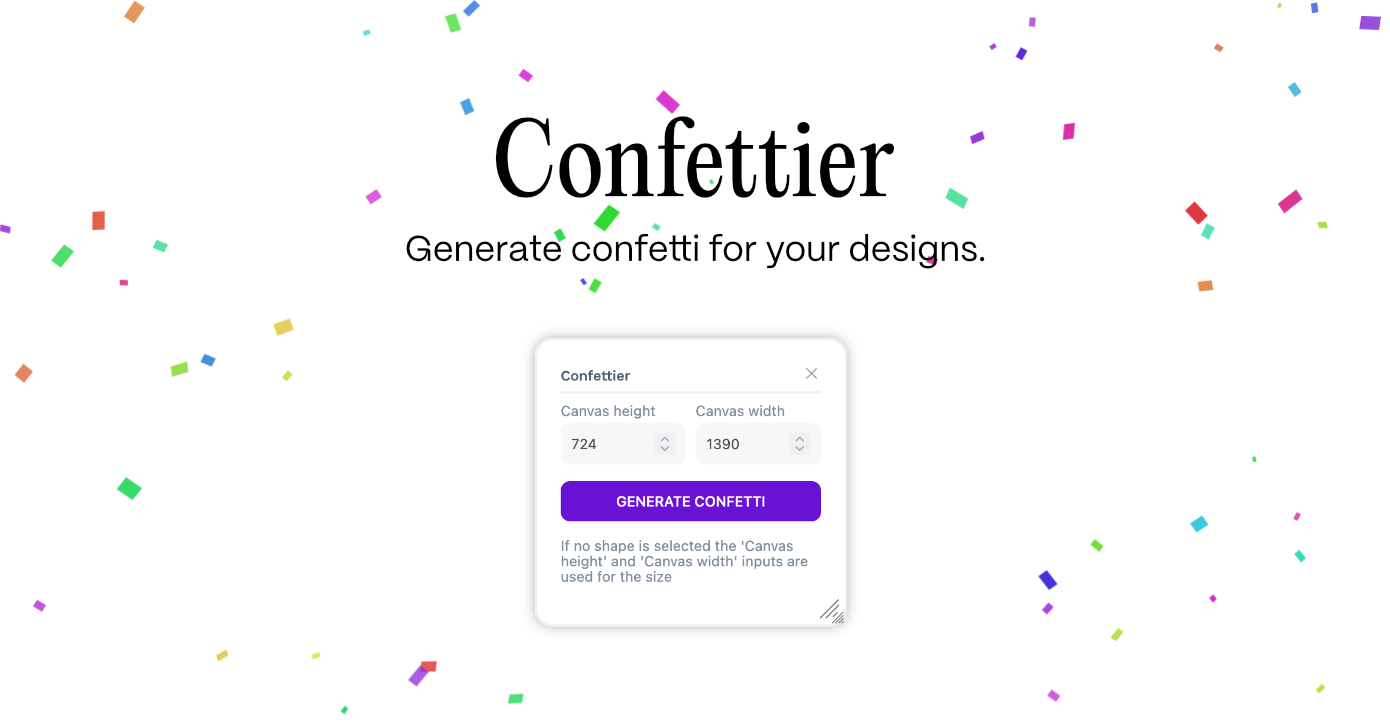
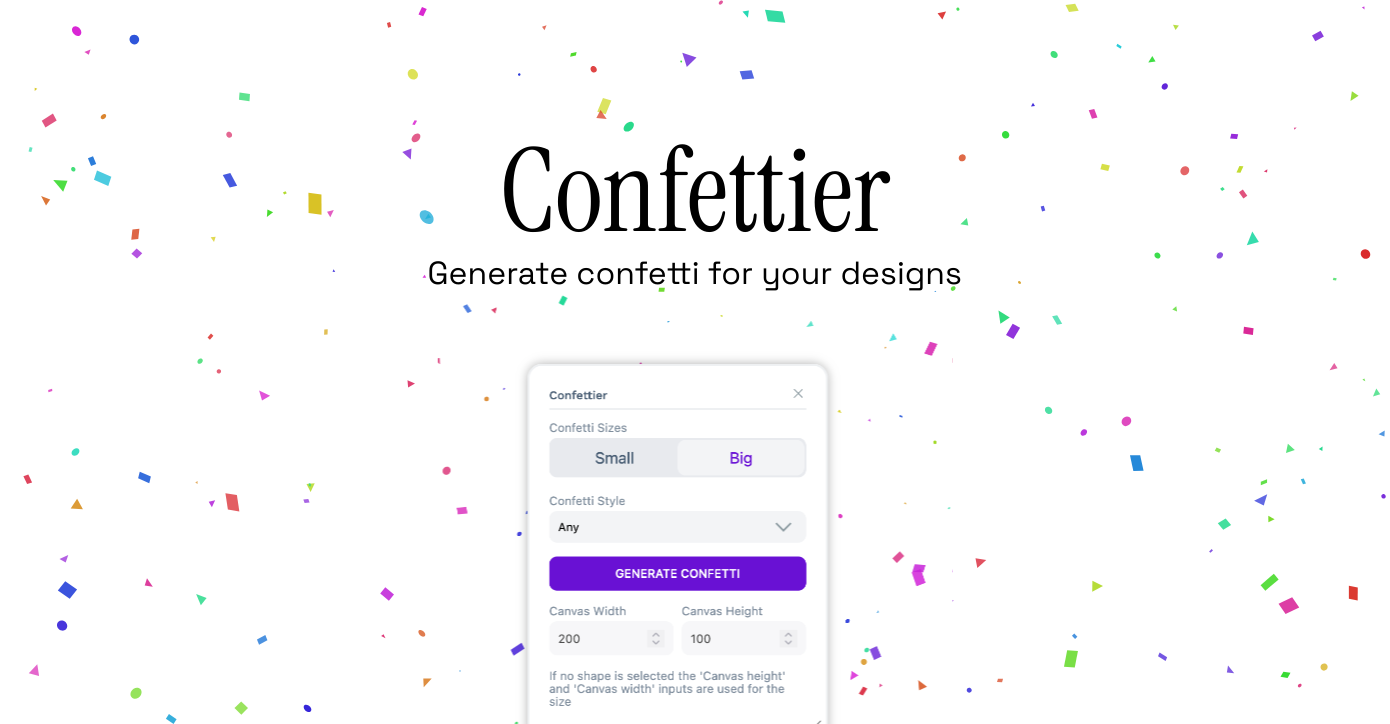
new options like size and shapes for confetti

diff --git a/src/plugin.ts b/src/plugin.ts
@@ -1,7 +1,76 @@
 penpot.ui.open("Confettier", `?theme=${penpot.theme}`, {
-  width: 240,
-  height: 220,
+  width: 280,
+  height: 360,
 });
+
+let confettiStyle = "all";
+let confettiSize = "Small";
+
+const createConfettiShape = (
+  positionX: number,
+  positionY: number,
+  particleSize: number,
+  particleColor: string,
+  rotation: number,
+  skewX: number,
+  skewY: number,
+) => {
+  // Randomly choose a shape type
+  let shapeType = Math.floor(Math.random() * 3); // 0: rectangle, 1: circle, 2: triangle
+
+  if (confettiStyle === "triangle") {
+    shapeType = 2;
+  } else if (confettiStyle === "circle") {
+    shapeType = 1;
+  } else if (confettiStyle === "square") {
+    shapeType = 0;
+  }
+
+  const transform = `
+    translate(${positionX + particleSize / 2} ${positionY + particleSize / 2})
+    scale(${0.7 + Math.random() * 0.6})
+    skewX(${skewX})
+    skewY(${skewY})
+    rotate(${rotation})
+    translate(${-(positionX + particleSize / 2)} ${-(positionY + particleSize / 2)})
+  `;
+
+  switch (shapeType) {
+    case 0: // Rectangle
+      return `<rect
+        x="${positionX}"
+        y="${positionY}"
+        width="${particleSize}"
+        height="${particleSize * 1.5}"
+        fill="${particleColor}"
+        transform="${transform}"
+        style="opacity: ${0.7 + Math.random() * 0.3}"
+      />`;
+
+    case 1: // Circle
+      return `<circle
+        cx="${positionX + particleSize / 2}"
+        cy="${positionY + particleSize / 2}"
+        r="${particleSize / 2}"
+        fill="${particleColor}"
+        transform="${transform}"
+        style="opacity: ${0.7 + Math.random() * 0.3}"
+      />`;
+
+    case 2: // Triangle
+      const points = `
+        ${positionX},${positionY + particleSize}
+        ${positionX + particleSize / 2},${positionY}
+        ${positionX + particleSize},${positionY + particleSize}
+      `;
+      return `<polygon
+        points="${points}"
+        fill="${particleColor}"
+        transform="${transform}"
+        style="opacity: ${0.7 + Math.random() * 0.3}"
+      />`;
+  }
+};
 
 const createConfetti = (width: number, height: number) => {
   const svgHeader = `<svg width="${width}" height="${height}" viewBox="0 0 ${width} ${height}"
@@ -12,7 +81,7 @@ const createConfetti = (width: number, height: number) => {
   // Calculate area and use it to determine confetti count
   const area = width * height;
   // Base density: approximately one confetti per 1000 square pixels
-  const baseDensity = 1 / 1000;
+  const baseDensity = 1 / 600;
   // Calculate base count from area and density
   const baseCount = Math.floor(area * baseDensity);
   // Add some randomness while keeping it proportional
@@ -32,7 +101,13 @@ const createConfetti = (width: number, height: number) => {
     particleIndex < finalConfettiCount;
     particleIndex++
   ) {
-    const particleSize = 2 + Math.random() * 9;
+    let particleSize;
+
+    if (confettiSize === "Small") {
+      particleSize = 2 + Math.random() * 9;
+    } else {
+      particleSize = 3 + Math.random() * 15;
+    }
     const positionX = Math.random() * width;
     const positionY = Math.random() * height;
 
@@ -42,22 +117,15 @@ const createConfetti = (width: number, height: number) => {
     const skewY = Math.random() * 30 - 15;
     const particleColor = `hsl(${Math.random() * 360}, 70%, 50%)`;
 
-    const confettiPiece = `<rect
-      x="${positionX}"
-      y="${positionY}"
-      width="${particleSize}"
-      height="${particleSize * 1.5}"
-      fill="${particleColor}"
-      transform="
-        translate(${positionX + particleSize / 2} ${positionY + particleSize / 2})
-        scale(${0.7 + Math.random() * 0.6})
-        skewX(${skewX})
-        skewY(${skewY})
-        rotate(${rotation})
-        translate(${-(positionX + particleSize / 2)} ${-(positionY + particleSize / 2)})
-      "
-      style="opacity: ${0.7 + Math.random() * 0.3}"
-    />`;
+    const confettiPiece = createConfettiShape(
+      positionX,
+      positionY,
+      particleSize,
+      particleColor,
+      rotation,
+      skewX,
+      skewY,
+    );
 
     confettiElements += confettiPiece;
   }
@@ -73,6 +141,7 @@ const createGroupShape = (
   height: number,
   x: number,
   y: number,
+  board: any = null,
 ) => {
   const shapeGroup = penpot.createShapeFromSvg(createConfetti(width, height));
 
@@ -83,6 +152,12 @@ const createGroupShape = (
     shapeGroup.x = x;
     shapeGroup.y = y;
 
+    if (penpot.utils.types.isBoard(board)) {
+      board.insertChild(0, shapeGroup);
+    } else if (board.parent) {
+      board.parent.insertChild(0, shapeGroup);
+    }
+
     penpot.selection = [shapeGroup];
   }
 };
@@ -90,10 +165,18 @@ const createGroupShape = (
 penpot.ui.onMessage<any>((message) => {
   if (message.msg === "generate") {
     const selection = penpot.selection;
+    confettiStyle = message.style;
+    confettiSize = message.size;
 
     if (selection.length > 0) {
       selection.forEach((element) => {
-        createGroupShape(element.width, element.height, element.x, element.y);
+        createGroupShape(
+          element.width,
+          element.height,
+          element.x,
+          element.y,
+          element,
+        );
       });
     } else {
       createGroupShape(

diff --git a/index.html b/index.html
@@ -1,37 +1,75 @@
-<!DOCTYPE html>
+<!doctype html>
 <html lang="en">
+    <head>
+        <meta charset="UTF-8" />
+        <meta name="viewport" content="width=device-width, initial-scale=1.0" />
+        <title>Penpot Confettier Plugin</title>
+        <link rel="icon" type="image/png" href="content/icon.png" />
+    </head>
 
-<head>
-  <meta charset="UTF-8" />
-  <meta name="viewport" content="width=device-width, initial-scale=1.0" />
-  <title>Penpot Confettier Plugin</title>
-</head>
+    <body>
+        <main>
+            <div>
+                <label>Confetti Sizes</label>
+                <div
+                    style="margin-top: 4px"
+                    class="size-selector choice-selector"
+                >
+                    <p class="choice-selected">Small</p>
+                    <p>Big</p>
+                </div>
+            </div>
 
-<body>
-  <main>
-    <section class="rows">
-      <label for="width">
-        Canvas width
-        <input min="60" class="input" type="number" placeholder="width" id="width" value="200" />
-      </label>
+            <div>
+                <label for="select-1">Confetti Style</label>
+                <select class="select" id="style-select">
+                    <option value="all">Combined</option>
+                    <option value="circle">Circles</option>
+                    <option value="square">Squares</option>
+                    <option value="triangle">Triangles</option>
+                </select>
+            </div>
 
-      <label for="height">
-        Canvas height
-        <input min="60" class="input" type="number" placeholder="height" id="height" value="100" />
-      </label>
-    </section>
+            <button
+                type="button"
+                data-appearance="primary"
+                data-handler="generate-confetti"
+            >
+                Generate Confetti
+            </button>
 
-    <button type="button" data-appearance="primary" data-handler="generate-confetti">
-      Generate Confetti
-    </button>
+            <section class="rows">
+                <label for="width">
+                    Canvas Width
+                    <input
+                        min="60"
+                        class="input"
+                        type="number"
+                        placeholder="width"
+                        id="width"
+                        value="200"
+                    />
+                </label>
 
-    <label>
-      If no shape is selected the 'Canvas height' and 'Canvas width' inputs are used for the size
-    </label>
-  </main>
+                <label for="height">
+                    Canvas Height
+                    <input
+                        min="60"
+                        class="input"
+                        type="number"
+                        placeholder="height"
+                        id="height"
+                        value="100"
+                    />
+                </label>
+            </section>
 
+            <label>
+                If no shape is selected the 'Canvas height' and 'Canvas width'
+                inputs are used for the size
+            </label>
+        </main>
 
-  <script type="module" src="/src/main.ts"></script>
-</body>
-
+        <script type="module" src="/src/main.ts"></script>
+    </body>
 </html>

diff --git a/src/main.ts b/src/main.ts
@@ -4,12 +4,50 @@ import "./style.css";
 const searchParams = new URLSearchParams(window.location.search);
 document.body.dataset.theme = searchParams.get("theme") ?? "light";
 
-document.querySelector("[data-handler='generate-confetti']")?.addEventListener("click", () => {
-  const widthInput = document.getElementById("width") as HTMLInputElement;
-  const heightInput = document.getElementById("height") as HTMLInputElement;
-  // send message to plugin.ts
-  parent.postMessage({ msg: 'generate', width: widthInput.value, height: heightInput.value }, "*");
+const sizeSelector = document.querySelector(".size-selector")!;
+let sizeSelectedValue = "Small";
+
+sizeSelector.addEventListener("click", (event: Event) => {
+  const target = event.target as HTMLElement;
+
+  if (target.tagName === "P") {
+    // Remove current selection
+    const currentSelected = sizeSelector.querySelector(".choice-selected");
+    currentSelected?.classList.remove("choice-selected");
+
+    // Add selection to clicked item
+    target.classList.add("choice-selected");
+    sizeSelectedValue = target.textContent || "Small";
+  }
 });
+
+const styleSelect = document.getElementById(
+  "style-select",
+) as HTMLSelectElement;
+let selectedValue = "all"; // default value
+
+styleSelect.addEventListener("change", (event: Event) => {
+  const target = event.target as HTMLSelectElement;
+  selectedValue = target.options[target.selectedIndex].value.toLowerCase();
+});
+
+document
+  .querySelector("[data-handler='generate-confetti']")
+  ?.addEventListener("click", () => {
+    const widthInput = document.getElementById("width") as HTMLInputElement;
+    const heightInput = document.getElementById("height") as HTMLInputElement;
+    // send message to plugin.ts
+    parent.postMessage(
+      {
+        msg: "generate",
+        width: widthInput.value,
+        height: heightInput.value,
+        style: selectedValue,
+        size: sizeSelectedValue,
+      },
+      "*",
+    );
+  });
 
 // Listen plugin.ts messages
 window.addEventListener("message", (event) => {

diff --git a/src/style.css b/src/style.css
@@ -29,7 +29,8 @@ label {
     font-size: 14px;
 }
 
-input {
+input,
+select {
     margin-top: 4px;
     width: 100%;
 }
@@ -46,7 +47,7 @@ input {
 
 .choice-selector p {
     text-align: center;
-    padding: 8px 0;
+    padding: 10px 0;
     border-radius: var(--spacing-8);
     cursor: pointer;
 }
